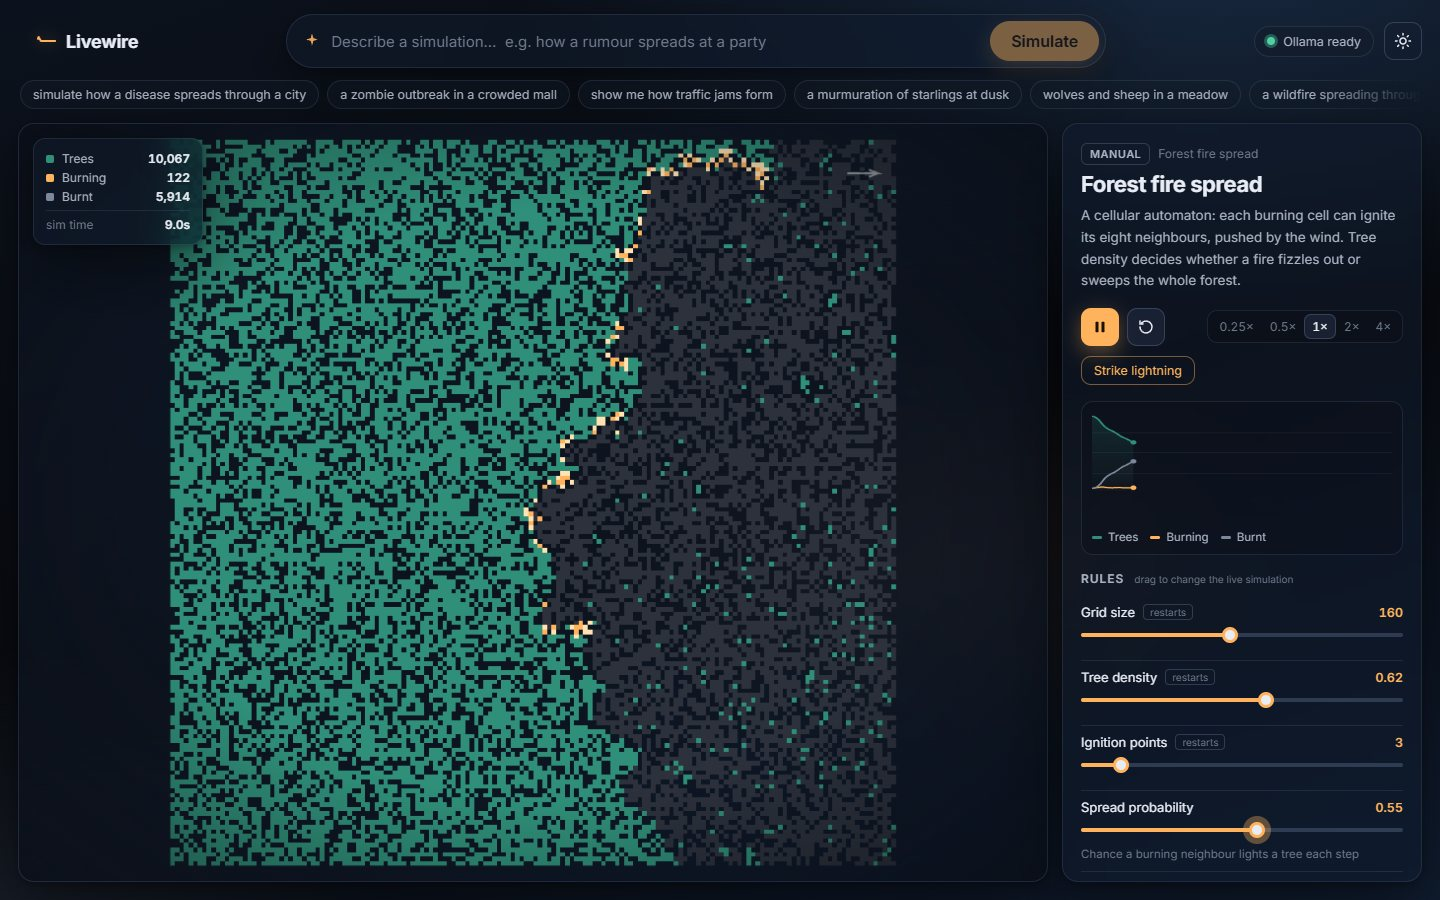
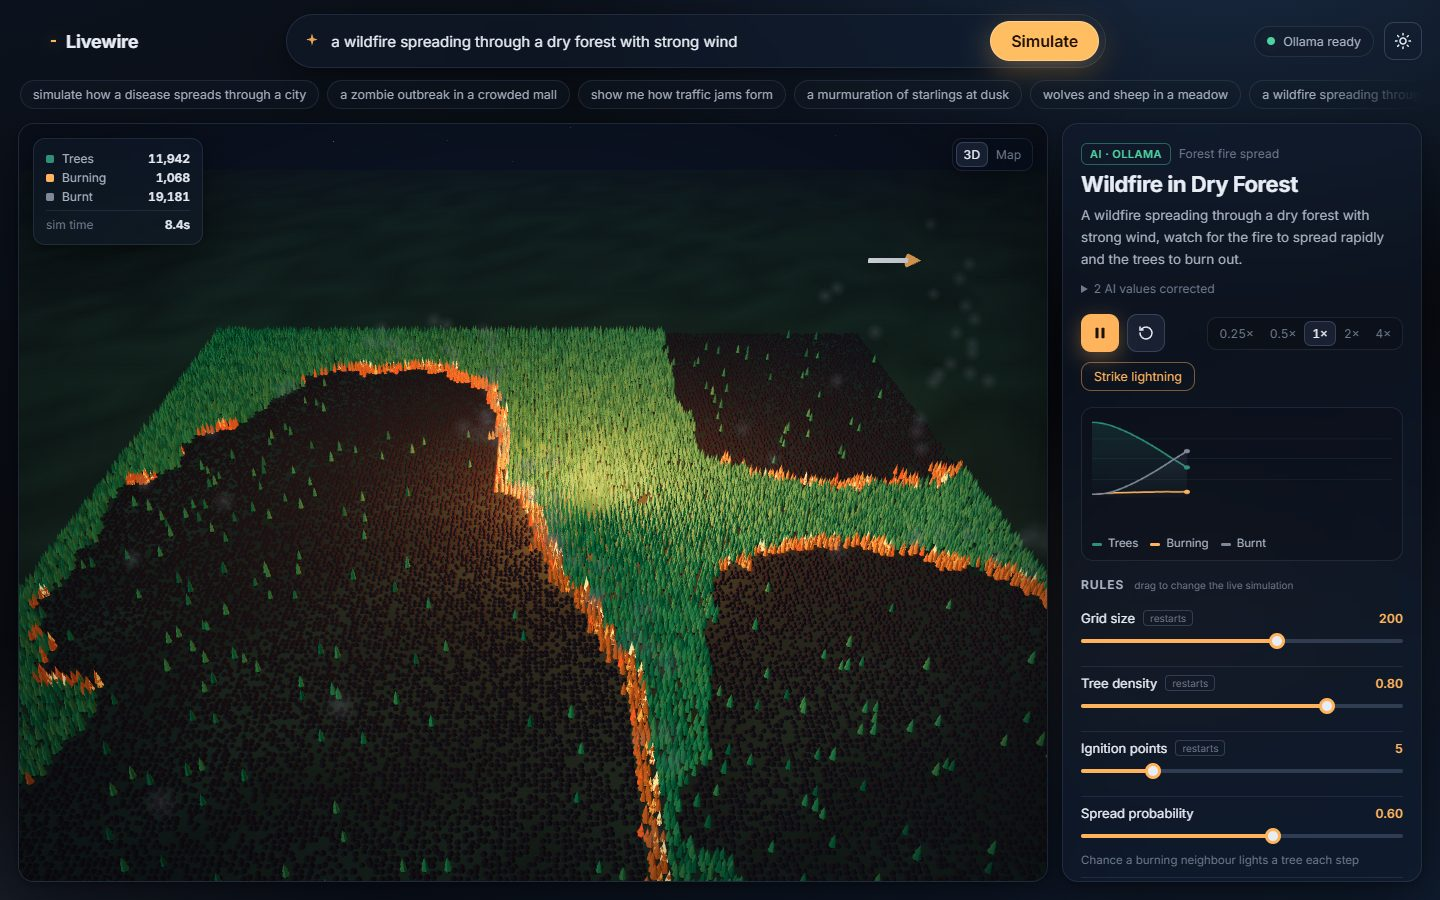
update readme and selftest for 3d scenes

diff --git a/README.md b/README.md
@@ -30,24 +30,28 @@ flowchart LR
 
 ## The simulation library
 
-| Template | View | Model | Live rules |
+| Template | 3D scene | Model | Live rules |
 |---|---|---|---|
-| Epidemic spread | Canvas 2D | Agent-based SIR with a spatial hash | population, infection radius, infection chance, recovery time, initial infected, movement speed |
-| Flocking (boids) | Three.js | Reynolds boids in 3D (separation, alignment, cohesion) | agents, separation, alignment, cohesion, speed, vision radius |
-| Predator–prey | Canvas 2D | Agent-based Lotka–Volterra: logistic prey growth, predators with an energy budget | prey birth rate, predation rate, predator death rate, starting populations |
-| Traffic flow | Canvas 2D | Intelligent Driver Model on a ring road, plus a space-time trail of stopped cars | cars, road length, max speed, braking sensitivity, a "Trigger a slowdown" button |
-| Gravity (n-body) | Three.js | Softened Newtonian gravity, O(n²), on a spinning disk | particle count, gravity strength, damping, initial spread, initial spin |
-| Forest fire | Canvas 2D | Cellular automaton, 8 neighbours, wind-biased spread, optional regrowth | grid size, tree density, ignition points, spread probability, wind direction and strength, regrowth |
+| Epidemic spread | People walking a city plaza; infected glow amber, recovered turn teal | Agent-based SIR with a spatial hash | population, infection radius, infection chance, recovery time, initial infected, movement speed |
+| Flocking (boids) | Birds with flapping wings over hills and a lake | Reynolds boids in 3D (separation, alignment, cohesion) | agents, separation, alignment, cohesion, speed, vision radius |
+| Predator–prey | Sheep and wolves on a meadow; wolves flash after a catch | Agent-based Lotka–Volterra: logistic prey growth, predators with an energy budget | prey birth rate, predation rate, predator death rate, starting populations |
+| Traffic flow | Cars on a ring highway; brake lights glow in jams | Intelligent Driver Model on a ring road, plus a space-time trail of stopped cars | cars, road length, max speed, braking sensitivity, a "Trigger a slowdown" button |
+| Gravity (n-body) | Glowing stars with motion trails, coloured by speed | Softened Newtonian gravity, O(n²), on a spinning disk | particle count, gravity strength, damping, initial spread, initial spin |
+| Forest fire | Thousands of trees, flames, smoke drifting with the wind, charred stumps | Cellular automaton, 8 neighbours, wind-biased spread, optional regrowth | grid size, tree density, ignition points, spread probability, wind direction and strength, regrowth |
 
 Each sim has its own live chart (S/I/R counts, prey and predators, average speed and jammed cars, and so on). Parameters marked **restarts** (for example grid size or road length) re-initialise the sim. Everything else changes the running simulation instantly, including agent counts, which grow or shrink in place.
 
-| Traffic: jams form with no accident | Boids: a flock emerges from three local rules | Forest fire pushed by wind |
+All six are low-poly 3D scenes built in code (no model downloads), rendered with React Three Fiber. You can orbit and zoom them. Dark mode shows them at night (lit windows, headlights, glowing flames); light mode shows them in daylight. The 2D sims also have a flat **Map** view (toggle at the top right of the stage), which is handy for reading patterns such as the traffic space-time trail.
+
+| Wildfire pushed by wind | Sheep and wolves | Starling flock |
 |---|---|---|
-| ![traffic](docs/traffic.jpg) | ![boids](docs/flocking.jpg) | ![fire](docs/forest.jpg) |
+| ![fire](docs/forest.jpg) | ![meadow](docs/meadow.jpg) | ![birds](docs/birds.jpg) |
+| **Phantom traffic jams** | **Galaxy forming** | |
+| ![traffic](docs/traffic.jpg) | ![galaxy](docs/galaxy.jpg) | |
 
 ### Adding a 7th template
 
-Drop one file in `src/sims/` that follows the contract documented at the top of [`src/sims/manifest.js`](src/sims/manifest.js): `params` schema, `init`, `step`, `stats`, and `render` (2D) or `render3d` (3D). Then add one import line to the manifest. The AI prompt, keyword fallback, sliders, chart, HUD and self-test all pick it up from there.
+Drop one file in `src/sims/` that follows the contract documented at the top of [`src/sims/manifest.js`](src/sims/manifest.js): `params` schema, `init`, `step`, `stats`, and `render` (2D) or `render3d` (3D). Then add one import line to the manifest. The AI prompt, keyword fallback, sliders, chart, HUD and self-test all pick it up from there, and it runs right away with that flat view. For a custom 3D scene, add `src/scenes/<id>.jsx`, which is picked up automatically.
 
 ## Run it
 
@@ -86,14 +90,14 @@ npm run selftest
 
 Runs with no network and no key. It checks that:
 
-- every template inits, runs 300 ticks, renders, and stays finite with each parameter at its min and max
+- every template has a 3D scene, inits, runs 300 ticks, renders, and stays finite with each parameter at its min and max
 - sliders clamp to the schema, and `restart` params really restart
 - each sim's dynamics actually happen: the epidemic spreads, phantom jams form, both species survive, dense forests burn more than sparse ones, the flock aligns, the gravity cloud stays bound
 - the AI mapper, using a mock provider, routes 9 sample prompts to sensible templates with valid JSON
 - invalid AI output (prose, truncated JSON, unknown template, wrong types, a network error, a `"none"` answer) falls back cleanly
 - the HTTP API works
 
-Latest run: **45/45 checks passed**. Excerpt:
+Latest run: **46/46 checks passed**. Excerpt:
 
 ```
 PASS  traffic: jams form with no slowdown event  (up to 8 cars stopped in a jam within 120 sim-s)
@@ -107,11 +111,12 @@ All checks passed
 
 ## Performance
 
-- Simulation frames never re-render React. Canvas 2D sims draw from a `requestAnimationFrame` loop, 3D sims update one `InstancedMesh` inside `useFrame`, and the HUD and chart write to the DOM or canvas directly a few times a second.
+- Simulation frames never re-render React. Each 3D scene updates instanced meshes (one draw call per kind of object: people, cars, trees, flames) inside `useFrame`. The forest only touches trees whose state changed. The HUD and chart write to the DOM or canvas directly a few times a second.
 - Fixed-timestep engine: a 0.25×–4× speed control, and frame time is clamped so a slow frame drops time instead of spiralling.
 - Paused while the tab is hidden.
 - Agent, particle and cell counts are capped per device: 35–60% of the desktop maximum on phones and low-core machines.
-- Three.js (about 840 kB) is lazy-loaded only when a 3D template runs. The main bundle is about 180 kB (62 kB gzipped).
+- Three.js (about 840 kB) and each scene (3–6 kB) are lazy-loaded. The main bundle is about 185 kB (63 kB gzipped).
+- In headless Edge on my laptop, every scene ran at 70–145 fps with default settings.
 
 ## Limitations
 
@@ -119,6 +124,7 @@ All checks passed
 - **Small local models are inconsistent.** In my testing, llama3.2:3b routed every demo prompt sensibly, but it sometimes kept default parameters, and it occasionally forced an off-topic prompt (for example "write my homework essay") into a template instead of answering `"none"`. A larger model should do better.
 - **The Gemini path is written but untested here**, because I had no key during development. The Ollama path and the mock provider are tested.
 - The keyword fallback only uses default parameters. It can't read "strong wind" into a slider value.
+- The 2D worlds wrap around: people and animals that walk off one edge reappear on the other, so in the city they can seem to step out of a building. Agents also pass through each other; there is no collision.
 - Resizing the window mid-run lets 2D agents wrap into the new bounds instead of rescaling.
 - n-body gravity is O(n²) and capped at 800 particles.
 
@@ -128,7 +134,8 @@ All checks passed
 src/sims/        six templates + manifest (pure JS, no browser APIs outside render)
 src/engine.js    fixed-step runner, live params, chart history, device caps
 src/ai/mapper.js system prompt, JSON extraction, schema validation, keyword fallback
-src/App.jsx, Stage.jsx, View3D.jsx, Panel.jsx, styles.css   UI
+src/scenes/      one 3D scene per template + shared kit (lighting, low-poly model builder)
+src/App.jsx, Stage.jsx, Panel.jsx, styles.css   UI (Stage picks the 3D scene or the flat Map view)
 server/api.mjs   providers (Ollama, Gemini, mock) + /api handler, no dependencies
 server/index.mjs production server
 selftest.mjs     the self-test
